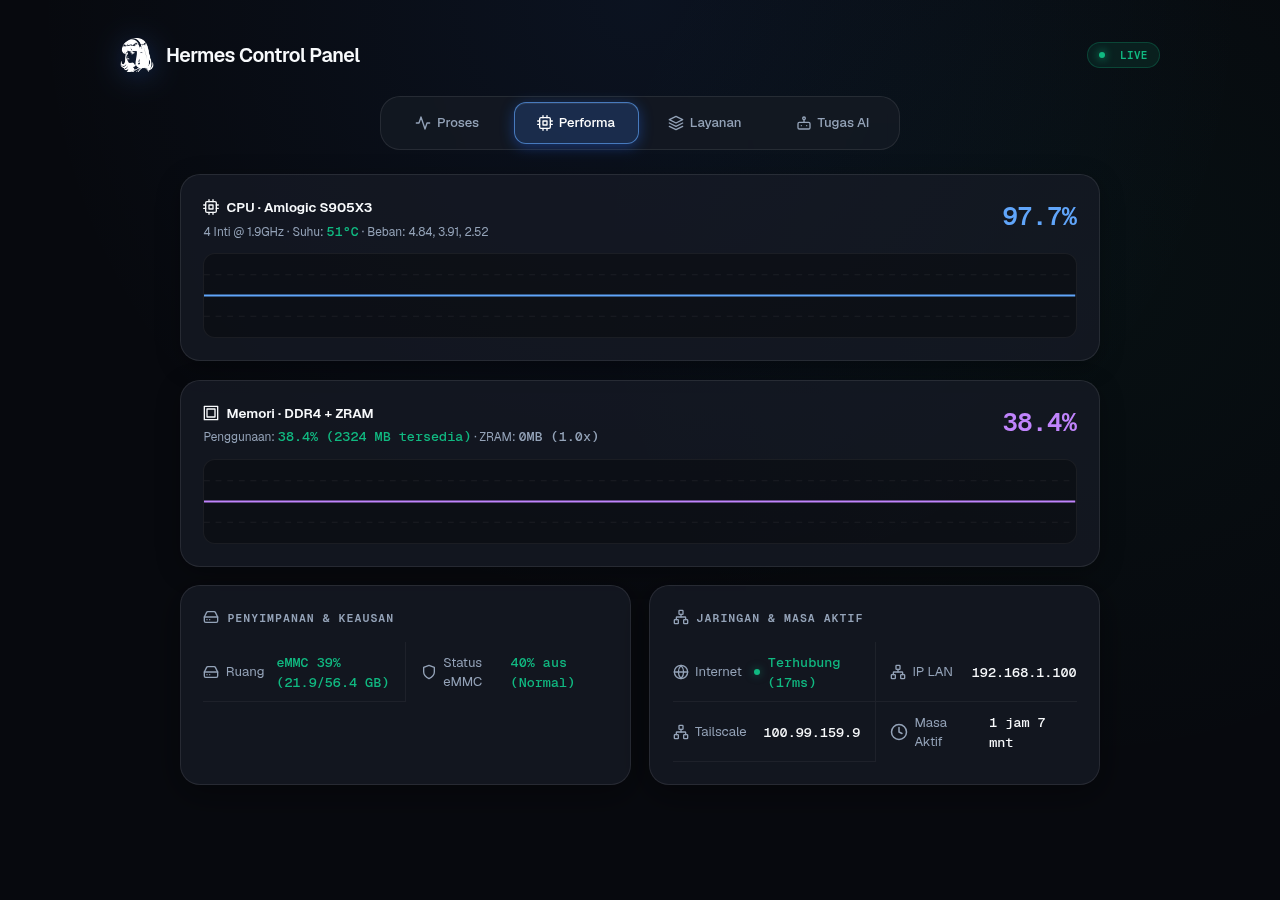
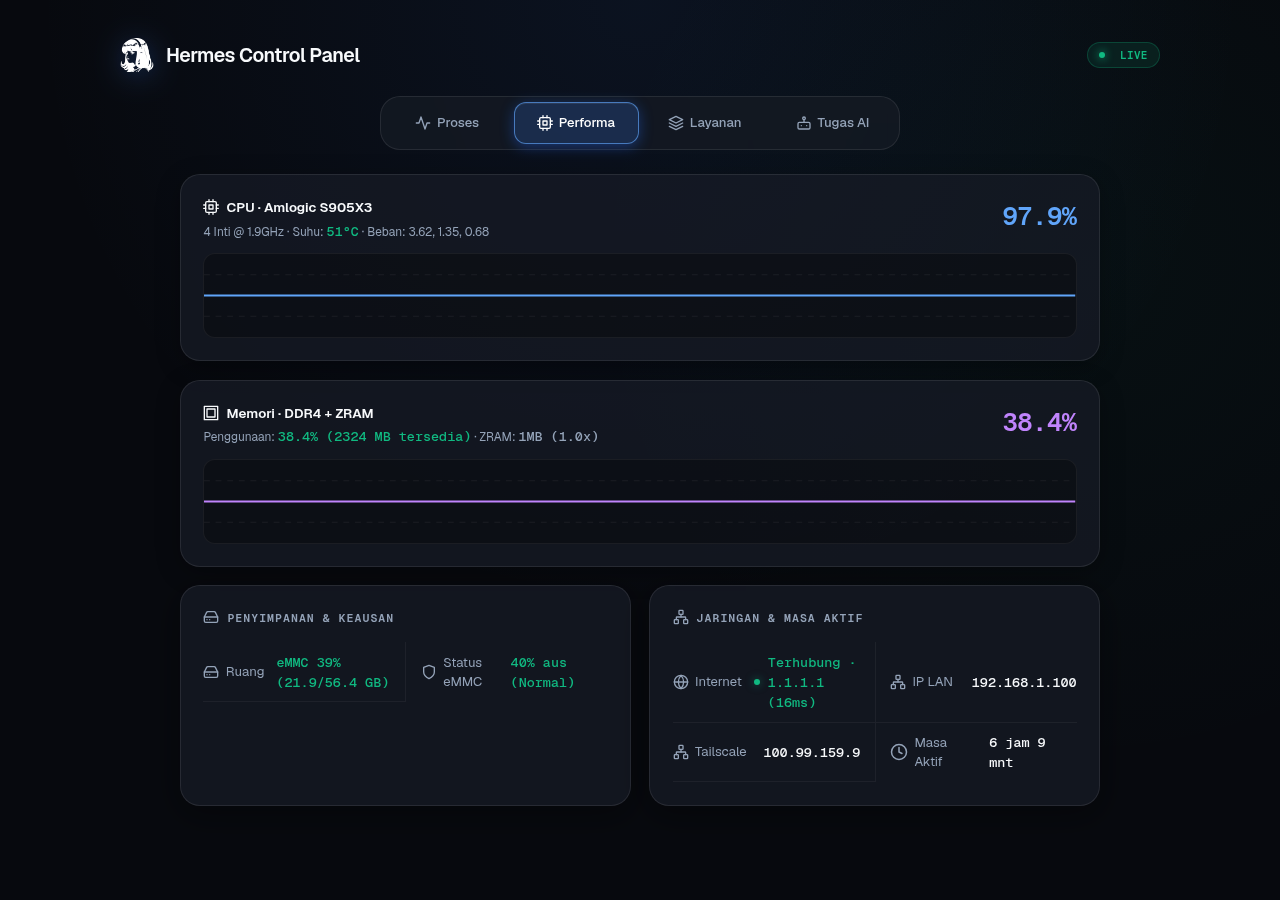
feat(ui): display test server host in internet status cell

Changed region(s): [[0.5312, 0.7467, 0.8438, 0.84], [0.8125, 0.2178, 0.8438, 0.2489], [0.3438, 0.2489, 0.375, 0.28]]

diff --git a/dashboard-toggle-server.py b/dashboard-toggle-server.py
@@ -3667,21 +3667,26 @@ def get_server_ips() -> tuple[str, str]:
     return ts_ip, lan_ip
 
 
-_internet_status_cache = {"at": 0.0, "online": False, "ms": 0.0}
+_internet_status_cache = {"at": 0.0, "online": False, "ms": 0.0, "target": "1.1.1.1"}
 _internet_status_lock = threading.Lock()
 INTERNET_CACHE_TTL = 8.0  # seconds
 
 
-def get_internet_status() -> tuple[bool, float]:
+def get_internet_status() -> tuple[bool, float, str]:
     """Check internet connectivity by reaching public DNS IPs (1.1.1.1 / 8.8.8.8) on port 53.
-    Returns (is_online, latency_ms). Thread-safe with 8s TTL cache."""
+    Returns (is_online, latency_ms, target_host). Thread-safe with 8s TTL cache."""
     now = time.monotonic()
     with _internet_status_lock:
         if now - _internet_status_cache["at"] < INTERNET_CACHE_TTL:
-            return _internet_status_cache["online"], _internet_status_cache["ms"]
+            return (
+                _internet_status_cache["online"],
+                _internet_status_cache["ms"],
+                _internet_status_cache.get("target", "1.1.1.1"),
+            )
 
     online = False
     latency_ms = 0.0
+    active_target = "1.1.1.1"
     for target in [("1.1.1.1", 53), ("8.8.8.8", 53)]:
         t0 = time.monotonic()
         try:
@@ -3689,6 +3694,7 @@ def get_internet_status() -> tuple[bool, float]:
             s.close()
             latency_ms = (time.monotonic() - t0) * 1000
             online = True
+            active_target = target[0]
             break
         except Exception:
             continue
@@ -3697,8 +3703,9 @@ def get_internet_status() -> tuple[bool, float]:
         _internet_status_cache["at"] = now
         _internet_status_cache["online"] = online
         _internet_status_cache["ms"] = latency_ms
+        _internet_status_cache["target"] = active_target
 
-    return online, latency_ms
+    return online, latency_ms, active_target
 
 
 def get_rate_limited_providers() -> list[dict]:
@@ -3760,7 +3767,7 @@ def build_fragments() -> dict:
     disk_class = "down" if disk_pct >= 95 else ("warn" if disk_pct >= 85 else "up")
     uptime_text = get_uptime()
     ts_ip, lan_ip = get_server_ips()
-    internet_up, internet_ms = get_internet_status()
+    internet_up, internet_ms, internet_target = get_internet_status()
     emmc_cls, emmc_text = get_emmc_health()
     zram_text = get_zram_info()
     gw_info = get_gateway_info()
@@ -3769,8 +3776,9 @@ def build_fragments() -> dict:
     all_flat_models = [m for m_list in all_models.values() for m in m_list]
     model_not_listed = bool(all_flat_models) and model not in all_flat_models
 
-    def cell(cls: str, text: str) -> str:
-        return f'<span class="value {cls}"><span class="dot {cls}"></span>{text}</span>'
+    def cell(cls: str, text: str, title: str = "") -> str:
+        t_attr = f' title="{html.escape(title)}"' if title else ""
+        return f'<span class="value {cls}"{t_attr}><span class="dot {cls}"></span>{text}</span>'
 
     # Format providers info
     all_providers = get_all_configured_providers()
@@ -3804,7 +3812,8 @@ def build_fragments() -> dict:
         "ts": f'<span class="value">{ts_ip or "–"}</span>',
         "internet": cell(
             "up" if internet_up else "down",
-            f"Terhubung ({internet_ms:.0f}ms)" if internet_up else "Terputus",
+            f"Terhubung · {internet_target} ({internet_ms:.0f}ms)" if internet_up else f"Terputus ({internet_target})",
+            title=f"Server tes: {internet_target} (DNS port 53, fallback: 8.8.8.8)",
         ),
     }
 
